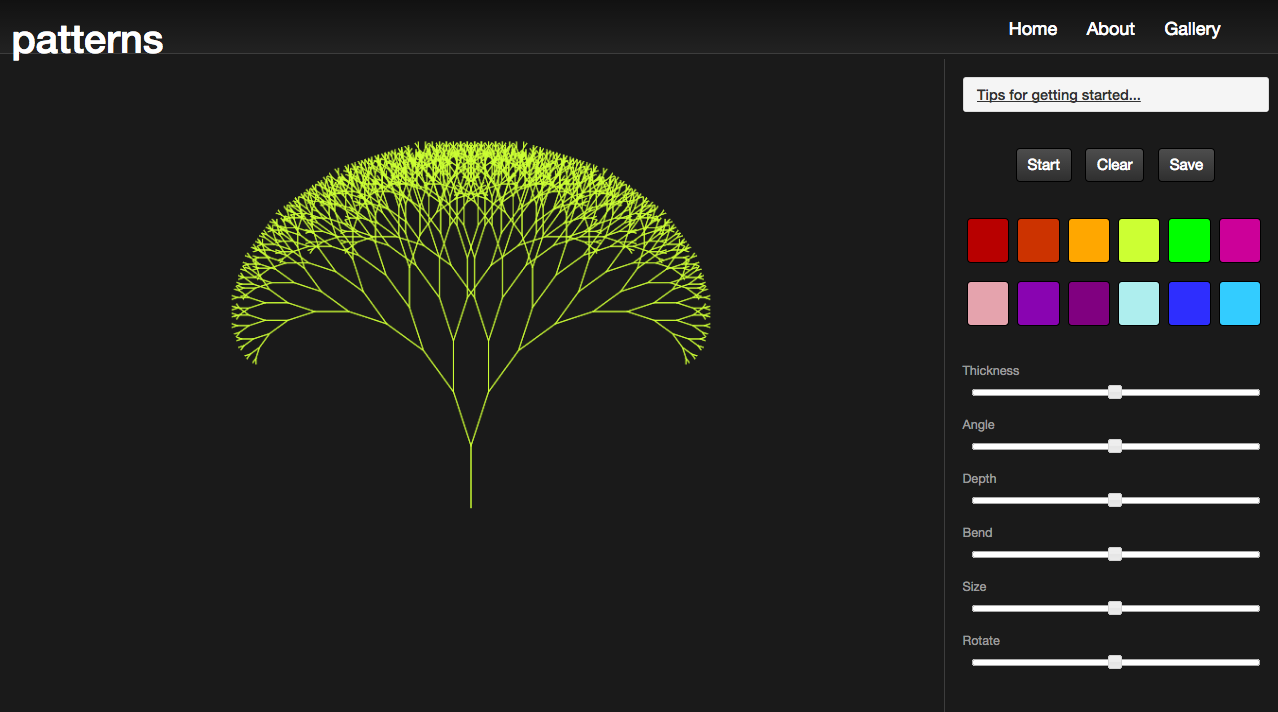
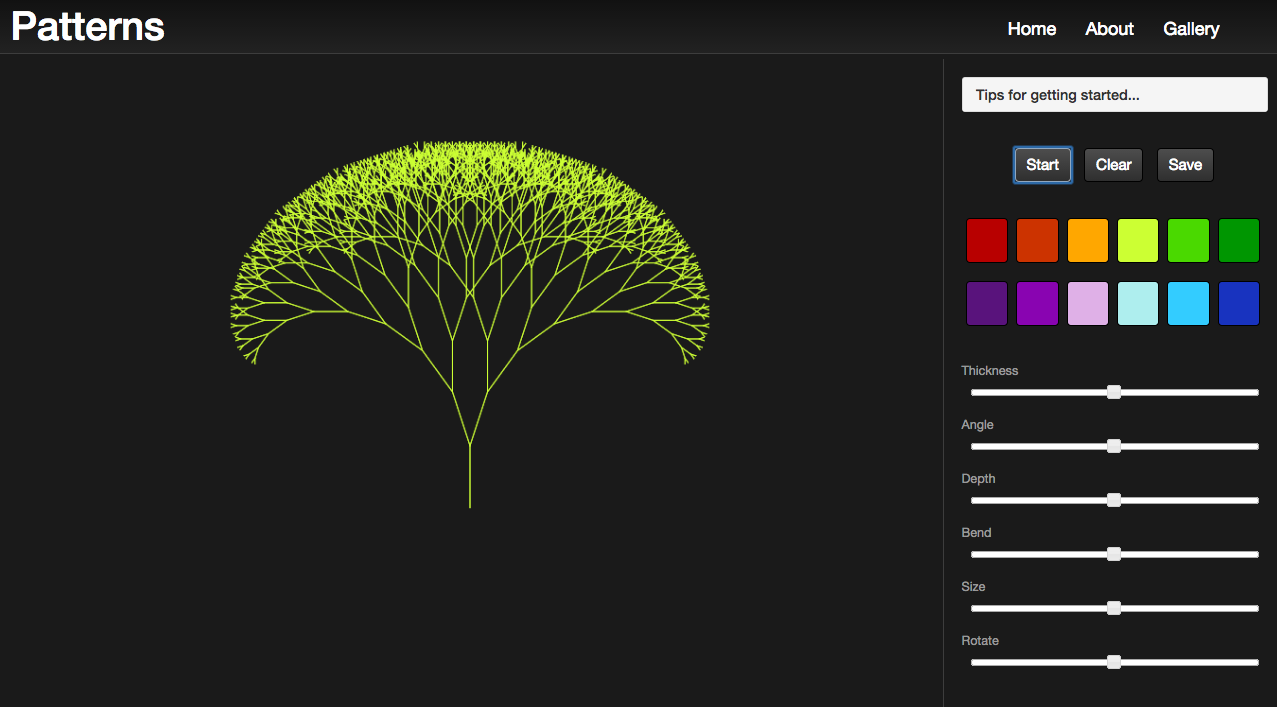
Upaded home.png to reflect current colors.

diff --git a/README.md b/README.md
@@ -9,7 +9,7 @@ JavaScript, jQuery, HTML, CSS, Python, Flask, SQLAlchemy, SQLite, AWS S3 API, Bo
 
 #### Creating Patterns
 
-Every pattern is composed of a series of lines drawn to the HTML5 canvas element. When a user clicks <kbd>start</kbd>,
+Every pattern is composed of a series of lines drawn to the HTML5 canvas element. When a user clicks <kbd>Start</kbd>,
 `window.setTimeout()` is used to execute a recursive line drawing function over a period of time. This makes a tree appear to grow on the screen. Every pattern a user creates originates from this tree.
 
 ![image](/static/images/home.png) 
@@ -55,7 +55,7 @@ Here are a few examples of patterns a user can create:
 
 #### Saving & Sharing Patterns
 
-Users can save the patterns they create to a public art gallery. When a user clicks <kbd>save</kbd> the pattern they created is assigned a UUID filename and saved to AWS S3. The pattern's filepath (a url reference to its location on S3) is saved to an SQLite database. A query for the most recently saved pattern urls is used to retrieve the pattern images and populate the gallery. Here is a sneak peek of the gallery page -- users can click on any image in the gallery to view it fullscreen or begin scrolling through the gallery pattern by pattern.
+Users can save the patterns they create to a public art gallery. When a user clicks <kbd>Save</kbd> the pattern they created is assigned a UUID filename and saved to AWS S3. The pattern's filepath (a url reference to its location on S3) is saved to an SQLite database. A query for the most recently saved pattern urls is used to retrieve the pattern images and populate the gallery. Here is a sneak peek of the gallery page -- users can click on any image in the gallery to view it fullscreen or begin scrolling through the gallery pattern by pattern.
 
 ![image](/static/images/gallery.png)
 
@@ -86,7 +86,7 @@ pip install -r requirements.txt
 
 ```
 
-Get your own secrect keys for [AWS S3] (http://aws.amazon.com/s3/) and save them to a file `s3_keys.sh`. Your file should look something like this:
+Get your own secrect keys for [AWS S3] (http://aws.amazon.com/s3/) and save them to a file <kbd>s3_keys.sh`</kbd>. Your file should look something like this:
 
 ```
 export AWS_ACCESS_KEY_ID='YOURSECRETKEYIDHERE'
